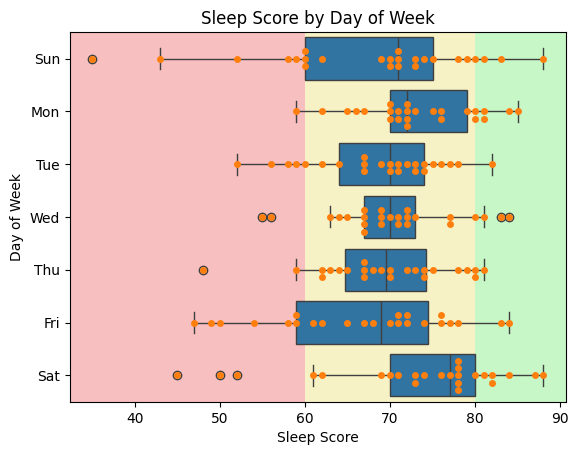
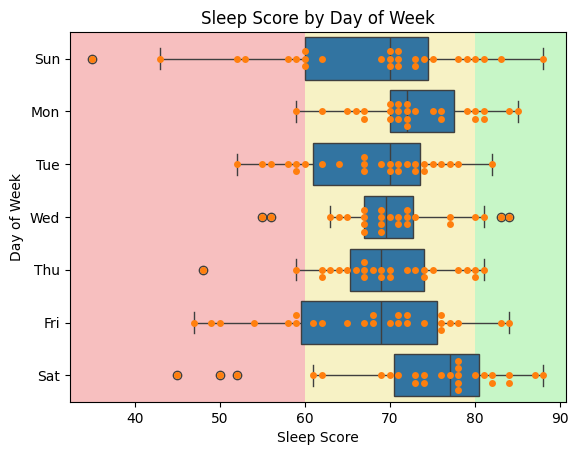
Updated data and plots

diff --git a/make_plots.py b/make_plots.py
@@ -267,16 +267,23 @@ def plot_sleep_start_time(df):
 
 def plot_sleep_start_time_by_day_of_week(df):
     # Sleep Start Time by Day of Week
+    low = df['start_time_hr'].min() - 0.1
+    split = 1
+    high = df['start_time_hr'].max() + 0.1
+    percent = 0.9
+    df['start_time_hr_transformed'] = df['start_time_hr'].apply(piecewise_transform, args=(low, split, high, percent))
     plt.figure()
     sns.boxplot(
         data=df,
         x='start_time_hr',
+        # x='start_time_hr_transformed',
         y='day_of_week',
         order=['Sun', 'Mon', 'Tue', 'Wed', 'Thu', 'Fri', 'Sat']
     )
     sns.swarmplot(
         data=df,
         x='start_time_hr',
+        # x='start_time_hr_transformed',
         y='day_of_week',
         dodge=True,
         order=['Sun', 'Mon', 'Tue', 'Wed', 'Thu', 'Fri', 'Sat']
@@ -442,6 +449,28 @@ def plot_sleep(filename="sleep.csv"):
     plot_sleep_score_histogram(df_notna)
     plot_sleep_score_vs_duration_smartwatch(df_notna)
     plot_sleep_score_vs_day_of_week(df)
+
+
+def piecewise_transform(x, low, split, high, percent):
+    """
+    Transform x to piecewise scaling.
+
+    Parameters:
+    - x: The input value to transform.
+    - low: The lower bound of the first segment.
+    - split: The upper bound of the first segment and lower bound of the second segment.
+    - high: The upper bound of the second segment.
+    - percent: The percentage of the total plot space for the first segment (0 to 1).
+
+    Returns:
+    - Transformed value in the range [0, 1].
+    """
+    if low <= x < split:
+        return low + (x - low) / (split - low) * (percent * (high - low))
+    elif split <= x <= high:
+        return low + percent * (high - low) + ((x - split) / (high - split)) * ((1 - percent) * (high - low))
+    else:
+        raise ValueError("x is out of bounds for the defined segments.")
 
 
 plot_sleep()
